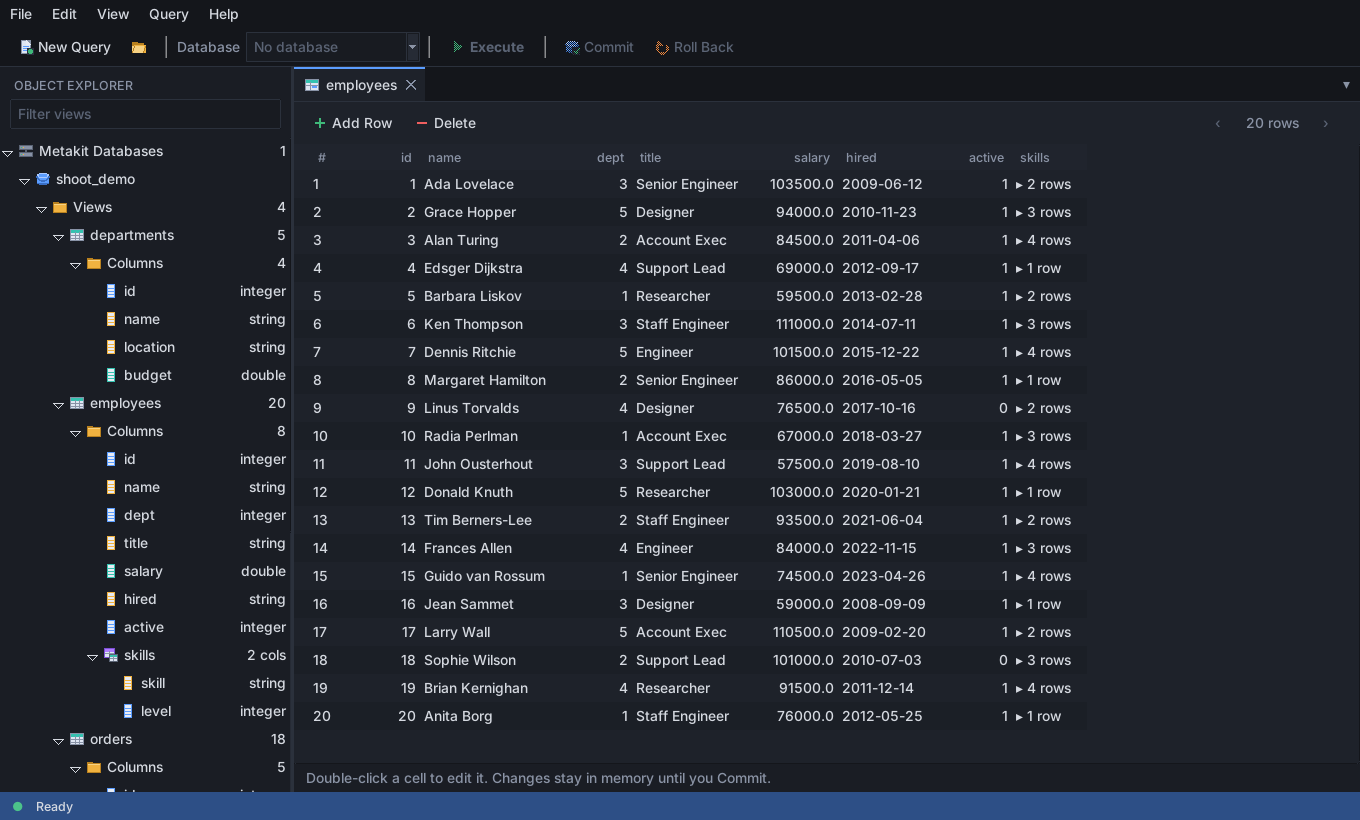
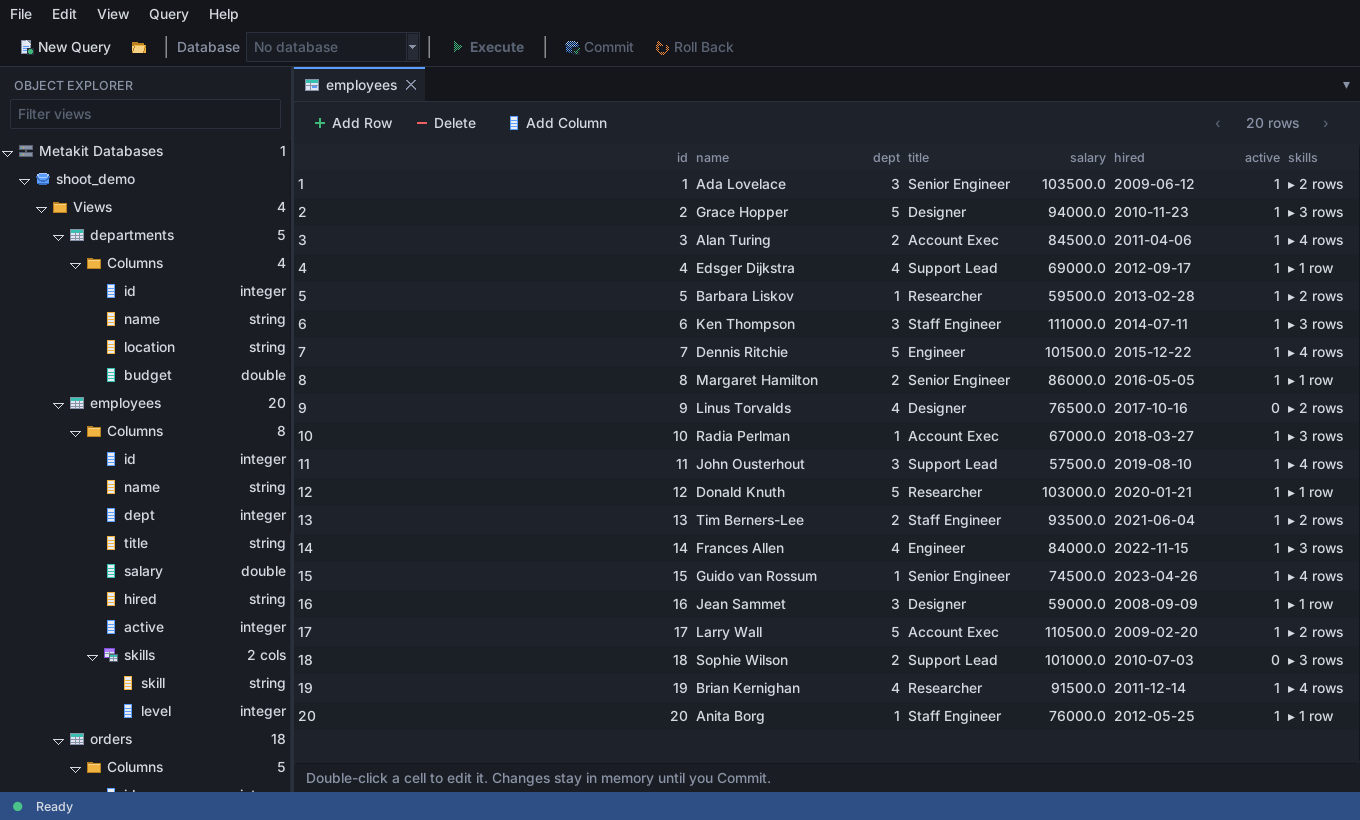
Align grid headers with cell text; Add Column in the data tab; Windows/macOS CI jobs
- Header text now lines up with cell text (measured within 1px, also at 2x);
  the # row-number column is a real right-aligned column
- Add Column button in the data editor (shared dialog with the Designer)
- Tests are portable (temp dirs, log capture for the console-less Windows kit)
- Workflow runs the full suite and a launch smoke test on windows-latest and
  macos-13 using the built starpacks, and uploads screenshots

Claude-Session: https://claude.ai/code/session_01CKDduJggD8s7SHWkQPvGdL

diff --git a/tests/check_alignment.py b/tests/check_alignment.py
@@ -1,0 +1,20 @@
+import sys
+from PIL import Image
+im=Image.open(sys.argv[1]).convert('RGB')
+parts=open('/tmp/align_geo.txt').read().split()
+ytop=int(parts[0]); yrow=int(parts[1]); rh=int(parts[2]); cols=parts[3:]
+def extent(y0,y1,x0,x1):
+    # bounding box of "ink": pixels differing noticeably from the cell's background (its left-edge pixel)
+    bg=im.getpixel((x0+1,y0+2)); xs=[]
+    for x in range(x0+1,x1-1):
+        for y in range(y0+3,y1-3):
+            p=im.getpixel((x,y))
+            if sum(abs(a-b) for a,b in zip(p,bg))>110: xs.append(x); break
+    return (min(xs)-x0, x1-max(xs)-1) if xs else None
+print("col        anchor  header(left,right inset)   cell(left,right inset)   delta")
+for c in cols:
+    name,x,w,anc=c.split(','); x=int(x); w=int(w)
+    h=extent(ytop,ytop+rh,x,x+w); r=extent(yrow,yrow+rh,x,x+w)
+    if h and r:
+        d=(h[0]-r[0]) if anc=='w' else (h[1]-r[1])
+        print(f"{name:8s}   {anc}       {str(h):22s}     {str(r):20s}   {d:+d}px")
